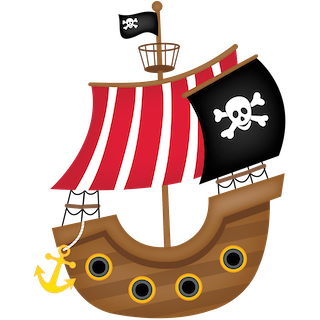
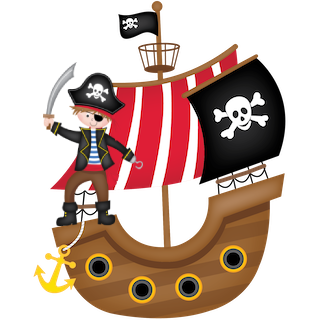
preview_level2

Changed region(s): [[0.125, 0.1875, 0.4688, 0.7188]]

diff --git a/src/Components/Level/Level/index.js b/src/Components/Level/Level/index.js
@@ -3,9 +3,10 @@ import React, { Component } from "react";
 import { connect } from "react-redux";
 import * as actionCreators from "../../../store/actions";
 import styled from "styled-components";
-import island from "../../../assets/images/Island a.png";
+import island from "../../../assets/images/island.png";
 import pirate from "../../../assets/images/Pirate 2.png";
 import * as styles from "./styles";
+import boat from "../../../assets/images/Pirate Ship.png";
 class Level extends Component {
   state = {
     /***** to be removed ******/
@@ -16,6 +17,15 @@ class Level extends Component {
 
     // comes as props
     buildingBlocks: [],
+    isPass: this.props.level.isPass,
+    help: "",
+    say: [
+      "أعتقد أن هناك شخص ما؟",
+      "أسمع صوتاً!!!",
+      "ماهذا الصوت!!!",
+      "أعتقد أنني أتخيل",
+      "هل هناااااك احددددددد؟"
+    ],
 
     // comes from the backend i added expected to tell us what type of tag we're expecting
     instructions: [
@@ -52,11 +62,13 @@ class Level extends Component {
         currentInstruction.expected === block.name
       ) {
         // here i would call this.props.[name of the fuction that changes the tooltip] and make it go to the next step
+        let say = this.state.say.getRandom();
         this.setState({
           userSteps: this.state.userSteps.concat(currentInstruction),
           currentInstruction: this.state.instructions[
             this.state.instructions.indexOf(currentInstruction) + 1
-          ]
+          ],
+          help: [say]
         });
         this.props.onSetInstruction(
           this.state.instructions[
@@ -87,12 +99,17 @@ class Level extends Component {
       currentInstruction: instructions[0]
     });
     this.props.onSetInstruction(instructions[0].content);
+    console.log("instruct", instructions[0].content);
+
     this.setView();
   };
 
   componentDidUpdate = prevProps => {
     if (prevProps.buildingBlocks !== this.props.buildingBlocks) {
-      this.setState({ buildingBlocks: this.props.buildingBlocks });
+      this.setState({
+        buildingBlocks: this.props.buildingBlocks
+      });
+      // if(this.props.buildingBlocks)
       this.setView();
     }
   };
@@ -107,6 +124,7 @@ class Level extends Component {
       <Container>
         <div className={this.props.level.classNameForBody}>
           <div className="playTags">
+            {" "}
             <div className="bubble">
               {this.props.level.classNameForTag &&
                 this.props.buildingBlocks.map(bb =>
@@ -115,9 +133,13 @@ class Level extends Component {
                     this.props.level.classNameForTag
                   )
                 )}
-            </div>
+            </div>{" "}
           </div>
           <div className="levelEl">
+            <img className="boat" src={boat} />
+            <div className="PirateBubble">
+              <h6 className="text-dark">{this.state.help}</h6>
+            </div>
             <div className="island">
               <img className="boy" src={pirate} width="150px" height="150px" />
               <img src={island} width="360px" height="180px" />

diff --git a/src/Components/Level/Level/styles.js b/src/Components/Level/Level/styles.js
@@ -29,18 +29,21 @@ ${
 }
 .boy {
   position: absolute;
-  left: 50%;
+  left: 5%;
   bottom: 40%;
 }
 .bubble 
 {
 position: relative;
-min-height: 100px;
-max-width: 190px;
+ min-height: 70px;
+width:120px
+max-width: 180px;
 max-height: auto;
+right:35%;
+top:25%;
 
 padding: 0px;
-background: #FFFFFF;
+background: rgba(255, 255, 255, 0.5);
 -webkit-border-radius: 10px;
 -moz-border-radius: 10px;
 border-radius: 10px;
@@ -52,45 +55,75 @@ border-radius: 10px;
   position: absolute;
   border-style: solid;
   border-width: 13px 18px 13px 0;
-  border-color: transparent #FFFFFF;
+  border-color: transparent  rgba(255, 255, 255, 0.5);
   display: block;
-  width: 0;
+  max-width: 0;
   z-index: 1;
   left: -18px;
-  top: 27px;
+  top: 29px;
 }
+.PirateBubble 
+{
+position: relative;
+width: 140px;
+max-height: 35px;
+min-height:35px
+padding: 0px;
+top:8%
+right:33%;
+background:rgba(255, 255, 255, 0.5);
+-webkit-border-radius: 12px;
+-moz-border-radius: 12px;
+border-radius: 12px;
+}
+
+.PirateBubble:after 
+{
+content: '';
+position: absolute;
+border-style: solid;
+border-width: 15px 0 5px 11px;
+border-color: transparent rgba(255, 255, 255, 0.5);
+display: block;
+width: 0;
+z-index: 1;
+right: -11px;
+top: 20%;
+}
+
 
 .secondLevelBody {
-  background: #1c6588;
-  height: 595px;
-  background-size: 470px;
+  background: rgb(66, 106, 123);
+  height: 630px;
+
+  background-size: 450px;
   animation: bg-move 5s ease-in infinite;
 }
-.firstLevel {
-  background: red;
-  height: 595px;
 
-}
-.firstLevelHTML {
-width: 100%;
+// .firstLevelHTML {
+// width: 100%;
+// height: 70px;
+// background-image: url(${flat});
+// background-repeat: no-repeat;
+// }
+.firstLevelHead {
+  width: 100%;
 height: 70px;
 background-image: url(${flat});
 background-repeat: no-repeat;
 }
-.firstLevelHead {
-  background: blue;
-  width: 100px;
-  height: 100px;
-}
 .firstLevelBody {
-  background: green;
-  width: 100px;
-  height: 100px;
+  background: #1c6588 url(${island}) repeat-x 15% -100px;
+  height: 595px;
+  background-size: 470px;
+  -webkit-animation: bg-move 5s ease-in infinite;
 }
 .firstLevelTitle {
-  background: pink;
   width: 100px;
-  color: yellow;
+  padding-top:3%;
+  margin-right:60%;
+
+  color: balck;
   height: 100px;
 }
 .secondLevelH1 {
@@ -108,5 +141,14 @@ background-repeat: no-repeat;
   100% {
     background-position: -250% -220px;
   }
+}
+.secondLevelH1{
+  color:white;
+}
+.secondLevelH2{
+  color:white;
+}
+.secondLevelH3{
+  color:white;
 }
 `;

diff --git a/src/Components/Level/PlayArea/index.js b/src/Components/Level/PlayArea/index.js
@@ -243,7 +243,10 @@ class PlayArea extends Component {
                     blocks={this.props.buildingBlocks}
                   />
                 </div>
-                <div className="col-6 preview-borad-area my-3 ml-2 card">
+                <div
+                  className="col-6 preview-borad-area my-3 ml-2 card "
+                  style={{ backgroundColor: "rgb(66, 106, 123)" }}
+                >
                   <h2 className="p-1 tool">شاشة العرض</h2>
                   {this.state.level && (
                     <PreviewBorad

diff --git a/src/Components/Level/Instruction/index.js b/src/Components/Level/Instruction/index.js
@@ -183,8 +183,8 @@ class Instruction extends Component {
             id="instructBird"
             src={assistant}
             style={{ width: "120%", top: "130%", left: "80%", botto: "30%" }}
-            data-tip="أهلا بالقرصان الصغير"
-            // data-tip={instruct[currentInstruct]}
+            // data-tip="أهلا بالقرصان الصغير"
+            data-tip={instruct[currentInstruct]}
             alt="pirateBird-instruct"
             ref="instruct"
             data-place="right"

diff --git a/src/assets/css/style.css b/src/assets/css/style.css
@@ -250,8 +250,8 @@ img.island3:hover {
   max-width: 48%;
   height: 665px;
   max-height: 665px;
-  overflow-y: scroll;
-  background-color: white;
+  /* overflow-y: scroll; */
+  /* background-color: white; */
 }
 
 .instructions-board {
@@ -286,10 +286,10 @@ img.island3:hover {
   -webkit-animation: bg-move 5s ease-in infinite;
 } */
 .boat {
-  width: 280px;
+  width: 140px;
   position: absolute;
-  top: 20%;
-  left: 35%;
+  bottom: 70%;
+  left: 65%;
 }
 .boat img {
   width: 100%;

diff --git a/src/Library/PiratesCode.js b/src/Library/PiratesCode.js
@@ -162,7 +162,7 @@ class ImgBlock extends Block {
 }
 
 class TextBlock extends Block {
-  constructor(text = "Sample", id, description) {
+  constructor(text = "ساعدوني", id, description) {
     super([], id, description);
     this.description = description;
     this.id = id;

diff --git a/src/Components/Level/BuildingBoard/TextBlock/index.js b/src/Components/Level/BuildingBoard/TextBlock/index.js
@@ -35,6 +35,7 @@ class TextBlock extends Component {
           type="text"
           //   value={this.state[`text-${block.name}-${index}`]}
           onChange={this.handleChange}
+          style={{ width: "140px" }}
         />
         <label> النص</label>
       </div>
